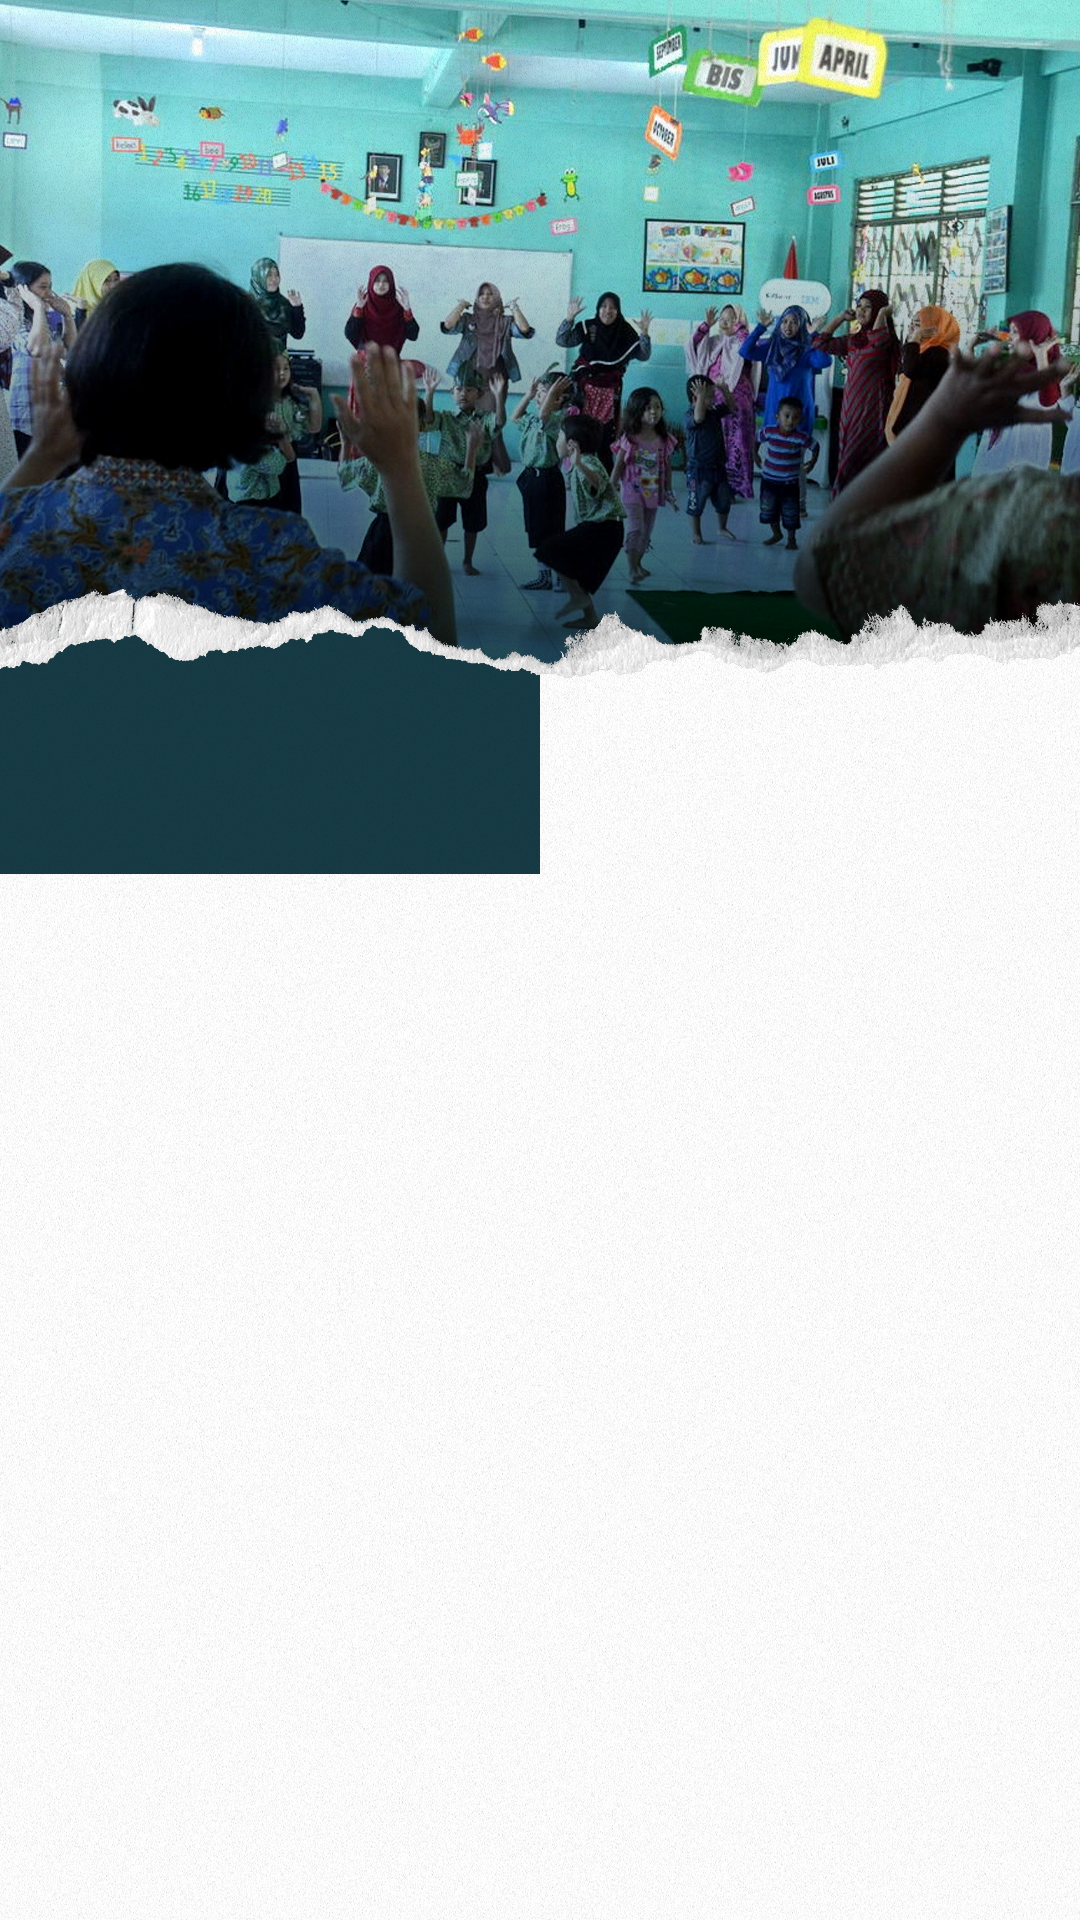
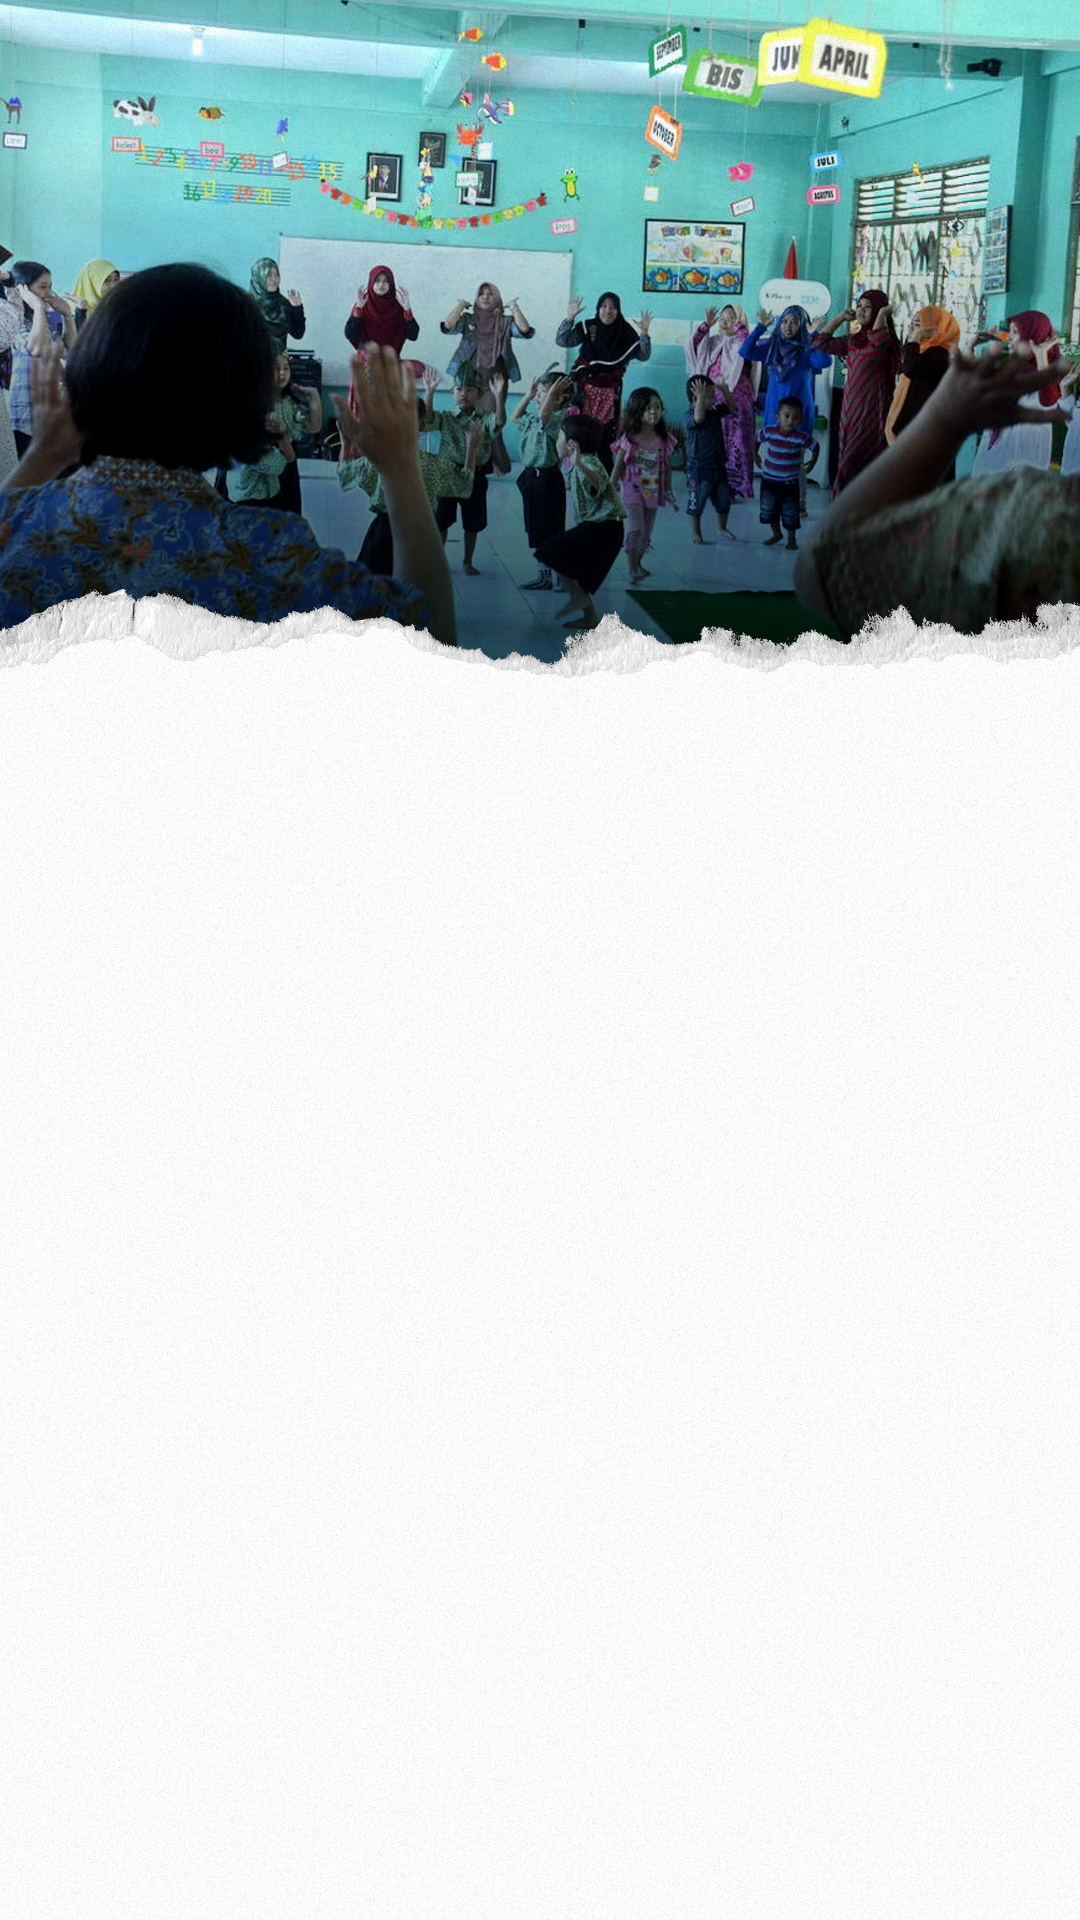
insight:ki hajar: section 4

Changed region(s): [[0.0, 0.3125, 0.5194, 0.4688]]

diff --git a/ki-hajar-dewantara-sang-bapak-pendidikan-dan-sumbangan-pemikirannya-untuk-indonesia/src/components/custom-components/SectionFourCustomImage.tsx b/ki-hajar-dewantara-sang-bapak-pendidikan-dan-sumbangan-pemikirannya-untuk-indonesia/src/components/custom-components/SectionFourCustomImage.tsx
@@ -5,8 +5,9 @@ import { motion } from "framer-motion";
 export function SectionFourCustomImage() {
   return (
     <section className="relative">
-      <div className="flex flex-col bg-[hsl(30,40%,90%)]">
+      <div className="flex flex-col">
         <div className="flex flex-col z-10 relative bg-cover bg-[center_top] bg-no-repeat" style={{ backgroundImage: `url('${baseUrl}/assets/3.0.png')` }}>
+          <div className="absolute top-0 bg-gradient-to-b from-[#82ded8] to-[#82ded8]/0 left-0 right-0 bottom-[90%] w-full" />
           <div className="flex justify-center max-w-4xl mx-auto relative lg:mt-[27rem]">
             <motion.img
               initial={{ opacity: 0, y: 20 }} viewport={{ once: true }}
@@ -17,29 +18,33 @@ export function SectionFourCustomImage() {
             <motion.img
               initial={{ opacity: 0, y: 20 }} viewport={{ once: true }}
               whileInView={{ opacity: 1, y: 0 }} transition={{ duration: .7, delay: 0.1 }}
-              src={`${baseUrl}/assets/3.2.png`} alt="" className="top-0" />
+              src={`${baseUrl}/assets/3.2.png`} alt="" className="top-0 invert" />
             <motion.img
               initial={{ opacity: 0, y: 20 }} viewport={{ once: true }}
               whileInView={{ opacity: 1, y: 0 }} transition={{ duration: .7, delay: 0.1 }}
-              src={`${baseUrl}/assets/3.3.png`} alt="" className="absolute top-0" />
+              src={`${baseUrl}/assets/3.3.png`} alt="" className="absolute top-0 " />
             <motion.img
               initial={{ opacity: 0, y: 20 }} viewport={{ once: true }}
               whileInView={{ opacity: 1, y: 0 }} transition={{ duration: .7, delay: 0.1 }}
-              src={`${baseUrl}/assets/3.4.png`} alt="" className="absolute top-0 lg:top-[8rem]" />
+              src={`${baseUrl}/assets/3.4.png`} alt="" className="absolute top-0 " />
             <motion.img
               initial={{ opacity: 0, y: 20 }} viewport={{ once: true }}
               whileInView={{ opacity: 1, y: 0 }} transition={{ duration: .7, delay: 0.1 }}
-              src={`${baseUrl}/assets/3.5.png`} alt="" className="absolute top-0 lg:top-[8rem]" />
+              src={`${baseUrl}/assets/3.5.png`} alt="" className="absolute top-0 " />
           </div>
-          <div className="flex justify-center max-w-4xl mx-auto relative lg:top-[8rem]">
+          <div className="flex justify-center max-w-4xl mx-auto relative lg:top-[8rem] lg:pb-[8rem]">
             <motion.img
               initial={{ opacity: 0, y: 20 }} viewport={{ once: true }}
               whileInView={{ opacity: 1, y: 0 }} transition={{ duration: .7, delay: 0.1 }}
               src={`${baseUrl}/assets/3.6.png`} alt="" className="top-0" />
-            <motion.img
-              initial={{ opacity: 0, y: 20 }} viewport={{ once: true }}
-              whileInView={{ opacity: 1, y: 0 }} transition={{ duration: .7, delay: 0.1 }}
-              src={`${baseUrl}/assets/3.7.png`} alt="" className="absolute top-0" />
+            <div className="absolute bottom-0 lg:pb-[8rem]">
+              <div className="relative bottom-0 top-0 left-0 right-0">
+                <motion.img
+                  initial={{ opacity: 0, y: 20 }} viewport={{ once: true }}
+                  whileInView={{ opacity: 1, y: 0 }} transition={{ duration: .7, delay: 0.1 }}
+                  src={`${baseUrl}/assets/3.7.png`} alt="" className="z-10" />
+              </div>
+            </div>
           </div>
         </div>
       </div>
